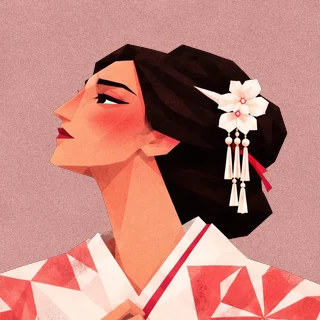
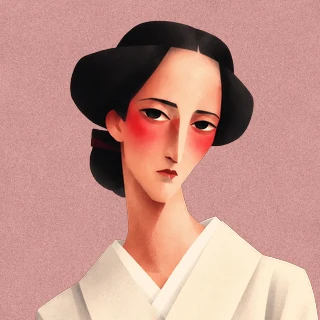
Madama Butterfly: new art for Cio-Cio-San, Pinkerton and Suzuki, first art for Sharpless; Goro, the Bonze and Kate Pinkerton added as roles with their numbers and portraits
Claude-Session: https://claude.ai/code/session_01J9nR1BmP9TjDnKqecdbpyd

diff --git a/src/standalone/scenes.ts b/src/standalone/scenes.ts
@@ -387,18 +387,18 @@ export const SCENES: Record<string, Scene[]> = {
   butterfly: [
     ...A("Act 1", [
       ["Introduction", "Orchestral introduction", [], "A busy fugue in the strings leads straight into the first scene."],
-      ["E soffitto… e pareti", "Scene", ["pinkerton", "suzuki"], "The broker Goro shows Pinkerton the house he has leased, and the servants."],
-      ["Dovunque al mondo", "Aria", ["pinkerton", "sharpless"], "Pinkerton toasts the Yankee roaming the world; Sharpless warns him the girl is in earnest."],
-      ["Ancora un passo or via… Quanto cielo! Quanto mar!", "Entrance", ["ciociosan", "sharpless", "pinkerton"], "Butterfly arrives with her friends, the happiest girl in Japan, and tells Sharpless about her family, once rich, and her age: fifteen."],
-      ["Butterfly's treasures", "Scene", ["ciociosan", "pinkerton"], "Her relatives arrive and gossip about the groom. She shows Pinkerton her few possessions, among them her father's dagger, and tells him she has taken up his faith."],
-      ["The wedding", "Scene", ["ciociosan", "pinkerton", "sharpless"], "The ceremony before the commissioner; Sharpless leaves with a last warning to Pinkerton, and the guests drink a toast."],
-      ["Cio-Cio-San!", "Scene", ["ciociosan", "pinkerton"], "Her uncle the Bonze curses her for abandoning her gods; her family disowns her."],
+      ["E soffitto… e pareti", "Scene", ["pinkerton", "suzuki", "goro"], "The broker Goro shows Pinkerton the house he has leased, and the servants."],
+      ["Dovunque al mondo", "Aria", ["pinkerton", "sharpless", "goro"], "Pinkerton toasts the Yankee roaming the world; Sharpless warns him the girl is in earnest."],
+      ["Ancora un passo or via… Quanto cielo! Quanto mar!", "Entrance", ["ciociosan", "sharpless", "pinkerton", "goro"], "Butterfly arrives with her friends, the happiest girl in Japan, and tells Sharpless about her family, once rich, and her age: fifteen."],
+      ["Butterfly's treasures", "Scene", ["ciociosan", "pinkerton", "goro"], "Her relatives arrive and gossip about the groom. She shows Pinkerton her few possessions, among them her father's dagger, and tells him she has taken up his faith."],
+      ["The wedding", "Scene", ["ciociosan", "pinkerton", "sharpless", "goro"], "The ceremony before the commissioner; Sharpless leaves with a last warning to Pinkerton, and the guests drink a toast."],
+      ["Cio-Cio-San!", "Scene", ["ciociosan", "pinkerton", "bonze", "goro"], "Her uncle the Bonze curses her for abandoning her gods; her family disowns her."],
       ["Viene la sera… Vogliatemi bene", "Love duet", ["ciociosan", "pinkerton", "suzuki"], "Suzuki is heard murmuring her evening prayers; Pinkerton comforts Butterfly and they sing of their love as night falls."],
     ]),
     ...A("Act 2", [
       ["E Izaghi ed Izanami", "Scene", ["suzuki", "ciociosan"], "Three years on, Suzuki prays and doubts he will return."],
       ["Un bel dì vedremo", "Aria", ["ciociosan"], "Butterfly is sure: one fine day his ship will appear.", ["suzuki"]],
-      ["The letter", "Scene", ["sharpless", "ciociosan"], "Sharpless tries to read Pinkerton's letter; she refuses Prince Yamadori, and shows Sharpless her son (“Che tua madre”).", ["suzuki"]],
+      ["The letter", "Scene", ["sharpless", "ciociosan", "goro"], "Sharpless tries to read Pinkerton's letter; she refuses Prince Yamadori, and shows Sharpless her son (“Che tua madre”).", ["suzuki"]],
       ["Scuoti quella fronda di ciliegio", "Flower duet", ["ciociosan", "suzuki"], "A cannon announces Pinkerton's ship; they fill the house with flowers."],
       ["The vigil", "Humming chorus", [], "Butterfly keeps watch all night; Suzuki and the child fall asleep.", ["ciociosan", "suzuki"]],
     ]),
@@ -407,7 +407,7 @@ export const SCENES: Record<string, Scene[]> = {
       ["Dormi amor mio", "Lullaby", ["ciociosan", "suzuki"], "Suzuki persuades Butterfly to rest; she carries the sleeping child upstairs, singing him a lullaby."],
       ["Io so che alle sue pene", "Trio", ["sharpless", "pinkerton", "suzuki"], "At dawn Pinkerton arrives with Sharpless; Suzuki learns of his American wife."],
       ["Addio, fiorito asil", "Aria", ["pinkerton", "sharpless"], "Overcome with remorse, Pinkerton cannot face Butterfly, and leaves; Sharpless tells him she will be told."],
-      ["Suzuki! Dove sei?", "Scene", ["ciociosan", "suzuki", "sharpless"], "Butterfly sees Kate Pinkerton and understands; Kate offers to raise the child, and Butterfly agrees, if Pinkerton comes for him himself in half an hour."],
+      ["Suzuki! Dove sei?", "Scene", ["ciociosan", "suzuki", "sharpless", "kate"], "Butterfly sees Kate Pinkerton and understands; Kate offers to raise the child, and Butterfly agrees, if Pinkerton comes for him himself in half an hour."],
       ["Con onor muore… Tu, piccolo iddio", "Finale", ["ciociosan", "pinkerton"], "She says goodbye to her son and takes her life with her father's dagger as Pinkerton calls her name."],
     ]),
   ],

diff --git a/src/standalone/opera-extra.ts b/src/standalone/opera-extra.ts
@@ -48,9 +48,13 @@ const PORTRAIT_ALT: Record<string, string> = {
   "carmen:jose": "Don José in a brown coat over a navy uniform, dark hair, a red flower in his hands.",
   "carmen:micaela": "Micaëla in a green dress and white shawl, a long braid over her shoulder, holding a letter.",
   "carmen:escamillo": "Escamillo in a black and gold bullfighter's jacket with a gold sash, a yellow cape over his arm.",
-  "butterfly:ciociosan": "Cio-Cio-San in a red and white kimono, white flowers in her black hair.",
-  "butterfly:pinkerton": "Pinkerton in a navy officer's uniform with gold buttons and stripes.",
-  "butterfly:suzuki": "Suzuki in a teal kimono with a gold sash, dark hair tied back.",
+  "butterfly:ciociosan": "Cio-Cio-San in a white kimono with a deep red obi, black hair pinned up, her hands folded.",
+  "butterfly:pinkerton": "Pinkerton in a white naval jacket with a navy collar, fair hair, one hand at his waist.",
+  "butterfly:suzuki": "Suzuki in a dark teal kimono with a rust obi, black hair pinned back, her arms folded.",
+  "butterfly:sharpless": "Sharpless in a black frock coat, grey at the temples, a letter in his hands.",
+  "butterfly:goro": "Goro in a mustard robe over a black kimono, dark hair, his hands tucked together.",
+  "butterfly:bonze": "The Bonze in black robes with a rust-red stole, his head shaved, one hand raised.",
+  "butterfly:kate": "Kate Pinkerton in a slate-blue dress with a high collar, fair hair pinned up, her arms crossed.",
   "schicchi:schicchi": "Gianni Schicchi in a red cap and red robe, white beard and moustache, holding the will and smiling slyly.",
   "schicchi:lauretta": "Lauretta in a red dress with white sleeves, brown hair, a hand at her chin.",
 };

diff --git a/src/standalone/operas.ts b/src/standalone/operas.ts
@@ -1101,6 +1101,30 @@ export const OPERAS: Opera[] = [
       "kind": "Letter scene with Cio-Cio-San · Act 2"
      }
     ]
+   },
+   {
+    "id": "goro",
+    "name": "Goro",
+    "voice": "Tenor",
+    "desc": "The marriage broker.",
+    "avatar": "hat",
+    "pieces": []
+   },
+   {
+    "id": "bonze",
+    "name": "The Bonze",
+    "voice": "Bass",
+    "desc": "Cio-Cio-San's uncle, a Buddhist priest.",
+    "avatar": "beard",
+    "pieces": []
+   },
+   {
+    "id": "kate",
+    "name": "Kate Pinkerton",
+    "voice": "Mezzo-soprano",
+    "desc": "Pinkerton's American wife.",
+    "avatar": "bun",
+    "pieces": []
    }
   ]
  },

diff --git a/scripts/art/build.py b/scripts/art/build.py
@@ -99,8 +99,10 @@ for i, (key, c) in enumerate(chars.items()):
     opera, ch = key.split(':')
     bg = pal[key]
     for k in ('portrait', 'face'):
-        fr = next(f for f in frames if kind(f) == k and c[k] in [CUTOUT.get(l[0], l[0]) for l in layers(f)])
-        im = render(fr, bg, SIZES[k], seed=i * 7 + (k == 'face'), fill=k in c.get('fill', []))
+        # the frame holding this picture; where a picture is used in several frames, the one named for the character
+        fr = next(f for f in frames if kind(f) == k and c[k] in [CUTOUT.get(l[0], l[0]) for l in layers(f)] and (k not in c.get('frame', {}) or f['name'] == c['frame'][k]))
+        # a frame holding the wrong picture: its layout, with the character's own picture swapped in
+        im = render(fr, bg, SIZES[k], seed=i * 7 + (k == 'face'), fill=k in c.get('fill', []), replace=c.get('swap', {}).get(k))
         # mirrored where the picture should face the other way
         if c.get('flip'): im = im.transpose(Image.FLIP_LEFT_RIGHT)
         im.save(f'{OUT}/{opera}-{ch}-{k}.webp', quality=88, method=6)
